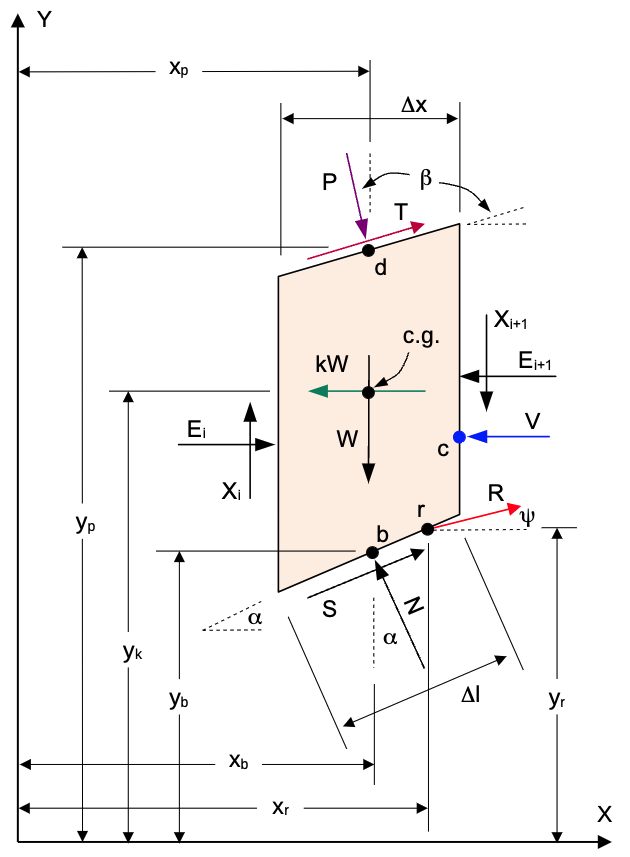
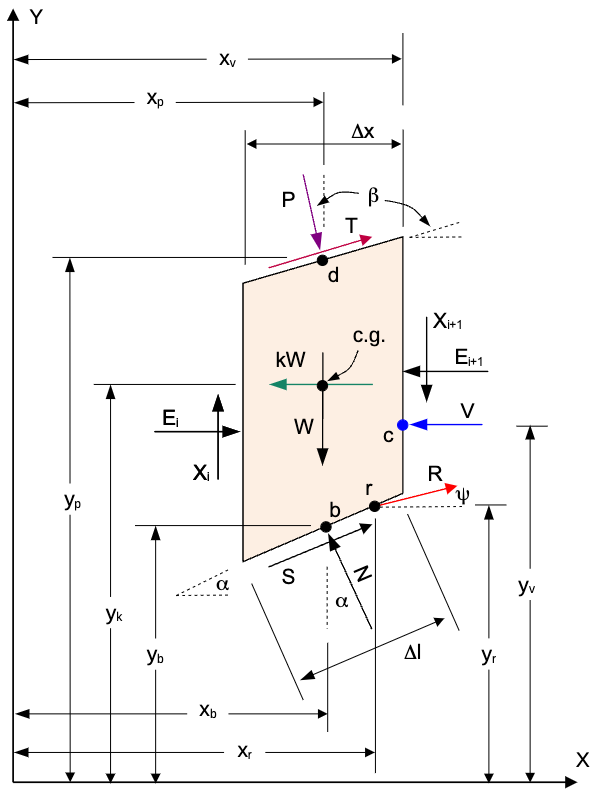
Added support for tension crack, V, in spencer's method.

diff --git a/solve.py b/solve.py
@@ -609,6 +609,7 @@ def spencer(df, tol=1e-4, max_iter = 100, debug_level=1):
     beta  = np.radians(df['beta'].values)  # distributed load inclination, degrees
     kw    = df['kw'].values  # seismic force
     V     = df['t'].values  # tension crack water force
+    y_v   = df['y_t'].values  # tension crack water force y-coordinate
     R     = df['p'].values  # reinforcement force
 
     # For now, we assume that reinforcement is flexible and therefore is parallel to the failure surface
@@ -634,10 +635,10 @@ def spencer(df, tol=1e-4, max_iter = 100, debug_level=1):
     sin_psi = np.sin(psi)  # sin(psi)
     cos_psi = np.cos(psi)  # cos(psi)
 
-    Fh = - kw + P * sin_b + R * cos_psi       # Equation (1)
+    Fh = - kw - V + P * sin_b + R * cos_psi       # Equation (1)
     Fv = - W - P * cos_b + R * sin_psi        # Equation (2)
     Mo = - P * sin_b * (y_p - y_b) - P * cos_b * (x_p - x_b) \
-        + kw * (y_k - y_b) - R * cos_psi * (y_r - y_b) + R * sin_psi * (x_r - x_b) # Equation (3)
+        + kw * (y_k - y_b) + V * (y_v - y_b) - R * cos_psi * (y_r - y_b) + R * sin_psi * (x_r - x_b) # Equation (3)
 
     def compute_Q(F, theta_rad):
         ma = 1 / (np.cos(alpha - theta_rad) + np.sin(alpha - theta_rad) * tan_p / F)  # Equation (24)

diff --git a/main.py b/main.py
@@ -33,7 +33,7 @@ def solve_all(df):
     solve_selected(lowe_karafiath, df)
     solve_selected(spencer, df)
 
-data = load_globals("docs/input_template_lface2.xlsx")
+data = load_globals("docs/input_template_dam2.xlsx")
 
 # plot_inputs(data)
 

diff --git a/docs/methods/spencer.md b/docs/methods/spencer.md
@@ -27,7 +27,7 @@ where:
 > $T$ = shear force on the top of the slice<br>
 > $R$ = reinforcement force on the base of the slice<br>
 > $r$ = point of action for the reinforcement force<br>
-> $V$ = resultunt force of water in tension crack<br>
+> $V$ = resultant force of water in tension crack (only applies to last slice)<br>
 > $c$ = point of action for the resultant force of water in the tension crack<br>
 > $\beta$ = angle of the top of the slope<br>
 > $\alpha$ = angle of the base of the slice<br>
@@ -35,11 +35,13 @@ where:
 > $\Delta \ell$ = length of the base of the slice<br>
 > $\Delta x$ = width of the slice<br>
 
+**Note**: In the current implementation of spencer's method in slopetools, the shear force, $T$, at the top of the slice is not simulated. It is included here for completeness in case it is added in the future. All of the other forces are included. 
+
 ## General Equations
 
 The equations for Spencer's method are derived from the equilibrium of forces and moments acting on the slice. One of the key features of Spencer's method is how the side forces are represented and lumped to a single force $Q_i$, which will be introduced later. Thus, it is helpeful to sum forces and moments using the forces acting on the slice except for the side forces and $N$ and $S$. Summing forces in the horizontal and vertical directions gives:
 
->>$F_h = -kW + P \sin \beta + T \cos \beta + R \cos \psi  \qquad (1)$
+>>$F_h = -kW - V + P \sin \beta + T \cos \beta + R \cos \psi  \qquad (1)$
 
 >>$F_v = - W - P \cos \beta + T \sin \beta + R \sin \psi  \qquad (2)$
 
@@ -47,7 +49,7 @@ Likewise, summing moments about the center of the base of the slice gives:
 
 $\begin{aligned}
 M_o &= - P \sin \beta (y_p - y_b) - P \cos \beta (x_p - x_b) - T \cos \beta (y_p - y_b) \\
-&\quad + T \sin \beta (x_p - x_b) + kW (y_k - y_b) - R \cos \psi (y_r - y_b) + R \sin \psi (x_r - x_b)
+&\quad + T \sin \beta (x_p - x_b) + kW (y_k - y_b) + V (y_v - y_b) - R \cos \psi (y_r - y_b) + R \sin \psi (x_r - x_b)
 \end{aligned}   \qquad (3)$
 
 Note that counter-clockwise moments are positive (right-hand rule).
